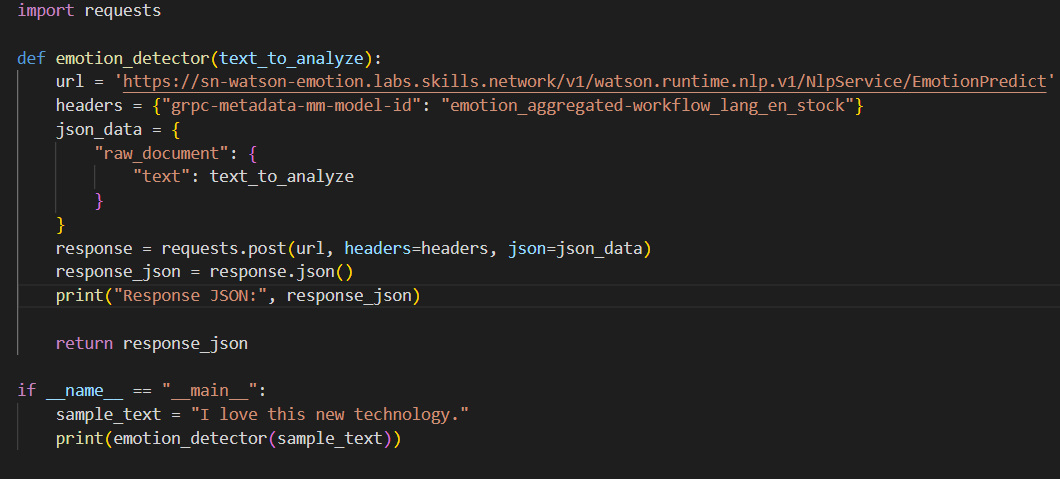
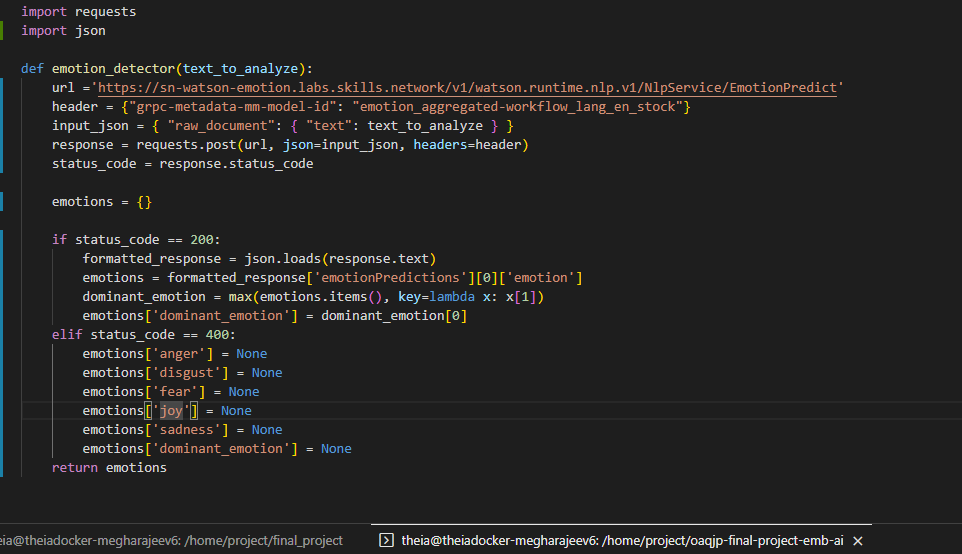
fourth

Changed region(s): [[0.0, 0.0, 0.9979, 0.8768], [0.0, 0.9353, 0.9044, 0.9937], [0.0312, 0.9061, 0.3742, 0.9353]]

diff --git a/EmotionDetection/emotion_detection.py b/EmotionDetection/emotion_detection.py
@@ -1,49 +1,25 @@
 import requests
+import json
 
 def emotion_detector(text_to_analyze):
-    url = 'https://sn-watson-emotion.labs.skills.network/v1/watson.runtime.nlp.v1/NlpService/EmotionPredict'
-    headers = {"grpc-metadata-mm-model-id": "emotion_aggregated-workflow_lang_en_stock"}
-    json_data = {
-        "raw_document": {
-            "text": text_to_analyze
-        }
-    }
-    response = requests.post(url, headers=headers, json=json_data)
-    response_json = response.json()
-    
-    # Assuming the response JSON structure includes an 'emotions' key with sub-keys for each emotion and their scores
-    emotions = response_json.get('emotions', {})
-    
-    # Extract scores
-    anger_score = emotions.get('anger', 0)
-    disgust_score = emotions.get('disgust', 0)
-    fear_score = emotions.get('fear', 0)
-    joy_score = emotions.get('joy', 0)
-    sadness_score = emotions.get('sadness', 0)
-    
-    # Find dominant emotion
-    emotion_scores = {
-        'anger': anger_score,
-        'disgust': disgust_score,
-        'fear': fear_score,
-        'joy': joy_score,
-        'sadness': sadness_score
-    }
-    dominant_emotion = max(emotion_scores, key=emotion_scores.get)
+    url ='https://sn-watson-emotion.labs.skills.network/v1/watson.runtime.nlp.v1/NlpService/EmotionPredict'
+    header = {"grpc-metadata-mm-model-id": "emotion_aggregated-workflow_lang_en_stock"}
+    input_json = { "raw_document": { "text": text_to_analyze } }
+    response = requests.post(url, json=input_json, headers=header)
+    status_code = response.status_code
 
-    # Format output
-    result = {
-        'anger': anger_score,
-        'disgust': disgust_score,
-        'fear': fear_score,
-        'joy': joy_score,
-        'sadness': sadness_score,
-        'dominant_emotion': dominant_emotion
-    }
+    emotions = {}
 
-    return result
-
-if __name__ == "__main__":
-    sample_text = "I am so happy I am doing this."
-    result = emotion_detector(sample_text)
-    print(result)
+    if status_code == 200:
+        formatted_response = json.loads(response.text)
+        emotions = formatted_response['emotionPredictions'][0]['emotion']
+        dominant_emotion = max(emotions.items(), key=lambda x: x[1])
+        emotions['dominant_emotion'] = dominant_emotion[0]
+    elif status_code == 400:
+        emotions['anger'] = None
+        emotions['disgust'] = None
+        emotions['fear'] = None
+        emotions['joy'] = None
+        emotions['sadness'] = None
+        emotions['dominant_emotion'] = None
+    return emotions

diff --git a/test_emotion_detection.py b/test_emotion_detection.py
@@ -1,0 +1,18 @@
+from EmotionDetection.emotion_detection import emotion_detector
+import unittest
+
+
+class TestEmotionAnalyzer(unittest.TestCase):
+    def test_emotion_analyzer(self):
+        result_1 = emotion_detector('I am glad this happened')
+        self.assertEqual(result_1['dominant_emotion'] , 'joy')
+        result_2 = emotion_detector('I am really mad about this')
+        self.assertEqual(result_2['dominant_emotion'] ,'anger')
+        result_3 = emotion_detector('I feel disgusted just hearing about this')
+        self.assertEqual(result_3['dominant_emotion'] , 'disgust')
+        result_4 = emotion_detector('I am so sad about this')
+        self.assertEqual(result_4['dominant_emotion'] , 'sadness')
+        result_5 = emotion_detector('I am really afraid that this will happen')
+        self.assertEqual(result_5['dominant_emotion'] , 'fear')
+
+unittest.main()
